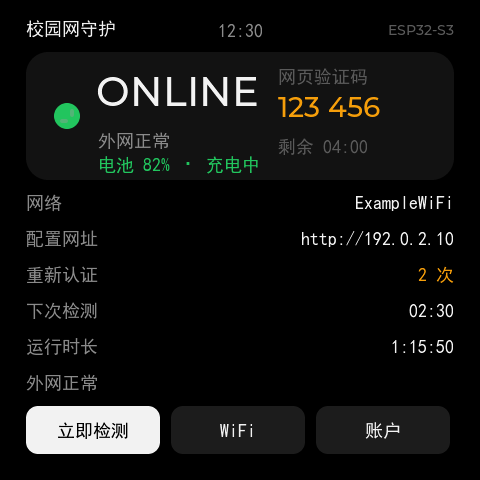
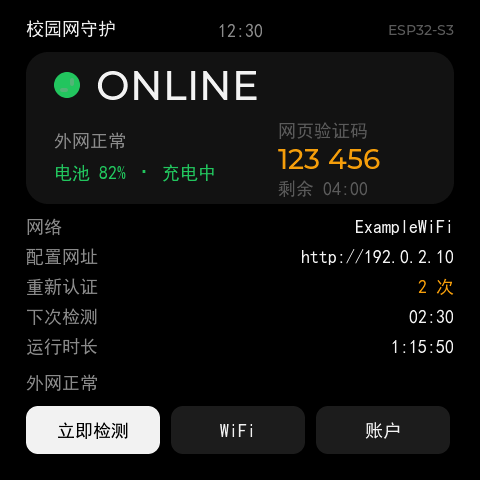
Keep complete home status names at a consistent large font

Changed region(s): [[0.5625, 0.125, 0.9375, 0.6875], [0.0938, 0.125, 0.5312, 0.375], [0.0312, 0.4062, 0.2188, 0.6875]]

diff --git a/main/ui.c b/main/ui.c
@@ -15,8 +15,9 @@
 #include "web.h"
 
 static const char *TAG = "ui";
-/* 左侧状态列结束于 x=242，右侧验证码列从 x=252 开始。 */
-#define STATE_TEXT_WIDTH 172
+/* 状态独占顶行；说明/电池与验证码在下方分列。 */
+#define STATE_TEXT_WIDTH 334
+#define STATE_DETAIL_WIDTH 200
 
 typedef struct {
     lv_obj_t *scr;
@@ -77,7 +78,7 @@ static void fmt_state(net_state_t st, const char **big, const char **cn, lv_colo
     case NET_WIFI_DOWN:
         *big = "NO WIFI"; *cn = "WiFi 未连接"; *col = UI_COL_RED; break;
     case NET_NO_ACCOUNT:
-        *big = "NO ACCT"; *cn = "缺少认证账号"; *col = UI_COL_AMBER; break;
+        *big = "NO ACCOUNT"; *cn = "缺少认证账号"; *col = UI_COL_AMBER; break;
     case NET_NEED_SETUP:
         *big = "SETUP"; *cn = "请先选择 WiFi"; *col = UI_COL_AMBER; break;
     case NET_ERROR:
@@ -130,14 +131,6 @@ static void set_state_text(const char *text)
     if (strcmp(lv_label_get_text(s_ui.state_big), text) == 0) {
         return;
     }
-    lv_point_t size;
-    lv_text_get_size(&size, text, &lv_font_montserrat_40,
-                     lv_obj_get_style_text_letter_space(s_ui.state_big, 0),
-                     0, LV_COORD_MAX, LV_TEXT_FLAG_NONE);
-    /* NO ACCT、LINKING 等较宽状态改用小一档字体，完整显示且不侵入验证码列。 */
-    lv_obj_set_style_text_font(s_ui.state_big,
-                              size.x <= STATE_TEXT_WIDTH ? &lv_font_montserrat_40
-                                                        : &lv_font_montserrat_32, 0);
     lv_label_set_text(s_ui.state_big, text);
 }
 
@@ -329,7 +322,7 @@ void ui_create(lv_display_t *disp)
 
     /* ---------------- 状态卡 ---------------- */
     lv_obj_t *card = lv_obj_create(scr);
-    lv_obj_set_size(card, 428, 128);
+    lv_obj_set_size(card, 428, 152);
     lv_obj_set_pos(card, 26, 52);
     lv_obj_set_style_bg_color(card, UI_COL_CARD, 0);
     lv_obj_set_style_bg_opa(card, LV_OPA_COVER, 0);
@@ -341,7 +334,7 @@ void ui_create(lv_display_t *disp)
 
     s_ui.dot = lv_obj_create(card);
     lv_obj_set_size(s_ui.dot, 26, 26);
-    lv_obj_set_pos(s_ui.dot, 28, 51);
+    lv_obj_set_pos(s_ui.dot, 28, 20);
     lv_obj_set_style_radius(s_ui.dot, LV_RADIUS_CIRCLE, 0);
     lv_obj_set_style_bg_color(s_ui.dot, UI_COL_SKY, 0);
     lv_obj_set_style_bg_opa(s_ui.dot, LV_OPA_COVER, 0);
@@ -349,40 +342,40 @@ void ui_create(lv_display_t *disp)
     ui_obj_clickable(s_ui.dot, false);
 
     s_ui.state_big = ui_label(card, "BOOT", &lv_font_montserrat_40, UI_COL_TEXT);
-    lv_obj_set_pos(s_ui.state_big, 70, 18);
+    lv_obj_set_pos(s_ui.state_big, 70, 12);
     lv_obj_set_width(s_ui.state_big, STATE_TEXT_WIDTH);
-    lv_label_set_long_mode(s_ui.state_big, LV_LABEL_LONG_CLIP);
+    lv_label_set_long_mode(s_ui.state_big, LV_LABEL_LONG_WRAP);
 
     s_ui.state_cn = ui_label(card, "启动中", &ui_font_18, UI_COL_MUTED);
-    lv_obj_set_pos(s_ui.state_cn, 72, 78);
-    lv_obj_set_width(s_ui.state_cn, STATE_TEXT_WIDTH);
-    lv_label_set_long_mode(s_ui.state_cn, LV_LABEL_LONG_CLIP);
+    lv_obj_set_pos(s_ui.state_cn, 28, 78);
+    lv_obj_set_width(s_ui.state_cn, STATE_DETAIL_WIDTH);
+    lv_label_set_long_mode(s_ui.state_cn, LV_LABEL_LONG_WRAP);
 
     /* ---------------- 电池（卡左下） ----------------
      * 没插电池时整行隐藏；插着 USB 只显示百分比+充电状态，不估续航。
-     * 位置在状态中文下面，宽 178 px，够放「电池 100% · 充电中」。 */
+     * 独占下方左列的一行，与右列验证码留出间距。 */
     s_ui.v_bat = ui_label(card, "", &ui_font_18, UI_COL_SKY);
-    lv_obj_set_pos(s_ui.v_bat, 72, 102);
-    lv_obj_set_width(s_ui.v_bat, 180);
-    lv_label_set_long_mode(s_ui.v_bat, LV_LABEL_LONG_CLIP);
+    lv_obj_set_pos(s_ui.v_bat, 28, 110);
+    lv_obj_set_width(s_ui.v_bat, STATE_DETAIL_WIDTH);
+    lv_label_set_long_mode(s_ui.v_bat, LV_LABEL_LONG_WRAP);
     ui_obj_hidden(s_ui.v_bat, true);
 
     /* ---------------- 网页验证码（卡右侧） ---------------- */
     /* 中文必须走 ui_font_18，montserrat 没有汉字字形（会画成方框） */
     lv_obj_t *code_cap = ui_label(card, "网页验证码", &ui_font_18, UI_COL_DIM);
-    lv_obj_set_pos(code_cap, 252, 14);
+    lv_obj_set_pos(code_cap, 252, 68);
 
     s_ui.v_code = ui_label(card, "000 000", &lv_font_montserrat_28, UI_COL_AMBER);
-    lv_obj_set_pos(s_ui.v_code, 252, 40);
+    lv_obj_set_pos(s_ui.v_code, 252, 92);
 
     s_ui.v_code_ttl = ui_label(card, "剩余 05:00", &ui_font_18, UI_COL_DIM);
-    lv_obj_set_pos(s_ui.v_code_ttl, 252, 84);
+    lv_obj_set_pos(s_ui.v_code_ttl, 252, 126);
 
     /* ---------------- 信息行 ---------------- */
-    s_ui.v_ssid = make_row(scr, 192, "网络");
-    s_ui.v_ip = make_row(scr, 228, "配置网址");
-    s_ui.v_auth = make_row(scr, 264, "重新认证");
-    s_ui.v_next = make_row(scr, 300, "下次检测");
+    s_ui.v_ssid = make_row(scr, 216, "网络");
+    s_ui.v_ip = make_row(scr, 246, "配置网址");
+    s_ui.v_auth = make_row(scr, 276, "重新认证");
+    s_ui.v_next = make_row(scr, 306, "下次检测");
     s_ui.v_uptime = make_row(scr, 336, "运行时长");
     lv_obj_set_style_text_color(s_ui.v_auth, UI_COL_AMBER, 0);
 

diff --git a/tools/screenshots/render.c b/tools/screenshots/render.c
@@ -149,17 +149,22 @@ static void click(lv_obj_t *parent, const char *text)
     assert(button);
     lv_obj_send_event(button, LV_EVENT_CLICKED, NULL);
 }
+static bool rectangles_overlap(const lv_area_t *a, const lv_area_t *b)
+{
+    return !(a->x2 < b->x1 || b->x2 < a->x1 || a->y2 < b->y1 || b->y2 < a->y1);
+}
 static void check_state_layout(void)
 {
     lv_obj_t *card = lv_obj_get_child(ui_screen_main(), 3);
     lv_obj_t *big = lv_obj_get_child(card, 1);
     lv_obj_t *subtitle = lv_obj_get_child(card, 2);
     lv_obj_t *battery = lv_obj_get_child(card, 3);
-    lv_obj_t *code = lv_obj_get_child(card, 4);
     lv_obj_update_layout(ui_screen_main());
-    lv_area_t right, sub;
-    lv_obj_get_coords(code, &right);
+    lv_area_t sub, card_bounds;
     lv_obj_get_coords(subtitle, &sub);
+    lv_obj_get_coords(card, &card_bounds);
+    assert(lv_obj_get_style_text_font(big, 0) == &lv_font_montserrat_40);
+    if (demo_state == NET_NO_ACCOUNT) assert(!strcmp(lv_label_get_text(big), "NO ACCOUNT"));
     for (unsigned i = 0; i < 3; ++i) {
         lv_obj_t *label = i == 0 ? big : (i == 1 ? subtitle : battery);
         lv_point_t size;
@@ -169,13 +174,21 @@ static void check_state_layout(void)
         assert(size.y <= lv_obj_get_content_height(label));
         lv_area_t area;
         lv_obj_get_coords(label, &area);
-        assert(area.x2 < right.x1);
+        assert(area.x1 >= card_bounds.x1 && area.x2 <= card_bounds.x2 && area.y2 <= card_bounds.y2);
+        for (unsigned j = 4; j <= 6; ++j) {
+            lv_area_t right;
+            lv_obj_get_coords(lv_obj_get_child(card, j), &right);
+            assert(!rectangles_overlap(&area, &right));
+        }
         if (i == 0) assert(area.y2 < sub.y1);
     }
+    lv_area_t first_row;
+    lv_obj_get_coords(lv_obj_get_child(ui_screen_main(), 4), &first_row);
+    assert(card_bounds.y2 < first_row.y1);
     lv_point_t original, actual;
     lv_text_get_size(&original, lv_label_get_text(big), &lv_font_montserrat_40, 0, 0, LV_COORD_MAX, LV_TEXT_FLAG_NONE);
     lv_text_get_size(&actual, lv_label_get_text(big), lv_obj_get_style_text_font(big, 0), 0, 0, LV_COORD_MAX, LV_TEXT_FLAG_NONE);
-    printf("State %s: original width %ld, fitted width %ld, available %ld\n",
+    printf("State %s: 40px text width %ld, rendered width %ld, available %ld\n",
            lv_label_get_text(big), (long)original.x, (long)actual.x, (long)lv_obj_get_content_width(big));
 }
 int main(int argc, char **argv)
@@ -195,12 +208,15 @@ int main(int argc, char **argv)
         demo_state = (net_state_t)state;
         advance(500);
         check_state_layout();
+        char state_name[32];
+        snprintf(state_name, sizeof(state_name), "state_%02d", state);
+        capture(argv[1], state_name);
         if (demo_state == NET_NO_ACCOUNT) capture(argv[1], "01_main_no_account");
     }
     demo_state = NET_ONLINE;
     advance(500);
     check_state_layout();
-    puts("PASS all 11 status labels fit completely without crossing the subtitle, battery or verification-code columns");
+    puts("PASS all 11 full status names use the same 40px font, fit completely and do not overlap verification widgets");
     ui_setup_open_wifi();
     complete_scan();
     advance(100);

diff --git a/README.md b/README.md
@@ -102,7 +102,7 @@ WiFi 页先展示已有列表并后台扫描，结果未变化时保留列表；
 |---|---|
 | ![主页](docs/images/01_main.png) | ![选 WiFi](docs/images/02_wifi.png) |
 
-长状态文案的布局示例：[缺少认证账号（NO ACCT）主页](docs/images/01_main_no_account.png)。
+完整状态名称的布局示例：[缺少认证账号（NO ACCOUNT）主页](docs/images/01_main_no_account.png)。
 
 | 输入 WiFi 密码 | 账号管理 |
 |---|---|
@@ -359,8 +359,8 @@ account=13800000000|密码2
 | 顶部中间 | 系统时间（联网后自动校准） |
 | 状态卡右侧 | 网页验证码 + 倒计时（网页改配置要用） |
 
-- 主页状态卡左侧有独立的文字范围，`NO ACCT`、`LINKING` 等较长状态按实际像素宽度选用字号，
-  完整显示文字，并与右侧验证码保留间距；中文状态和电池信息各占独立行。
+- 主页状态名称独占卡片顶部整行，现有 11 种状态统一使用 40 号大字，
+  `NO ACCOUNT` 使用完整名称；中文说明、电池和验证码在下方分区，互不遮挡。
 - 10 秒无操作熄屏，再 60 秒降频休眠；点一下屏幕即亮。
 - 没配网时，开机 2.5 秒后自动跳到扫描页。
 - WiFi 页再次进入时立即保留上次列表，同时在后台扫描；结果未变化时不重建列表，

diff --git a/tools/screenshots/README.md b/tools/screenshots/README.md
@@ -43,7 +43,8 @@ WiFi 扫描任务在模拟器中先挂起，完成后执行真实扫描结果处
 “已完成”和“扫描中”，并检查相同结果没有替换原列表控件。
 两种删除确认框复用真实按钮回调，同时验证取消不删除、确认后才删除、目标独立复制、
 重复确认不重复删除，以及当前联网 WiFi 的原有删除保护。
-主页遍历全部 11 种状态，按真实字体测量英文状态、中文说明和电池文字，检查完整显示和列间距。
+主页遍历全部 11 种状态，验证英文状态统一为 40 号字体且完整显示，
+包括完整名称 `NO ACCOUNT`；同时检查中文说明、电池及验证码的矩形范围没有交叠。
 主机不模拟硬件触摸、QSPI、DMA、WiFi 时序或真实电池测量；屏幕实际效果仍需板上验证。
 
 网页截图打开原始 `main/index.html`；Python 仅在 `127.0.0.1` 临时提供演示 API。

diff --git a/CHANGELOG.md b/CHANGELOG.md
@@ -9,6 +9,16 @@
 
 暂无。
 
+## 主页完整状态名称与大字布局
+
+对应项目版本见根目录 [VERSION](VERSION)，本文不重复填写版本号。
+
+- 主页状态卡改为上方完整状态名称、下方说明/电池与验证码分区；
+  现有 11 种状态统一保留 40 号大字，`NO ACCT` 改为完整的 `NO ACCOUNT`，取消缩小字号的处理。
+- 更新主页截图和本地渲染验证，检查所有状态完整显示、区域不重叠，并保留底部操作按钮的位置。
+- 全部 11 种主页状态通过真实 LVGL 渲染与 40 号字体检查，固件本地编译通过；
+  本次发布包校验和板上烧录验证结果记录在对应 Release 说明中。
+
 ## 网页验证码入口与配置面板切换 - 2026-11-08
 
 对应项目版本见根目录 [VERSION](VERSION)，本文不重复填写版本号。
